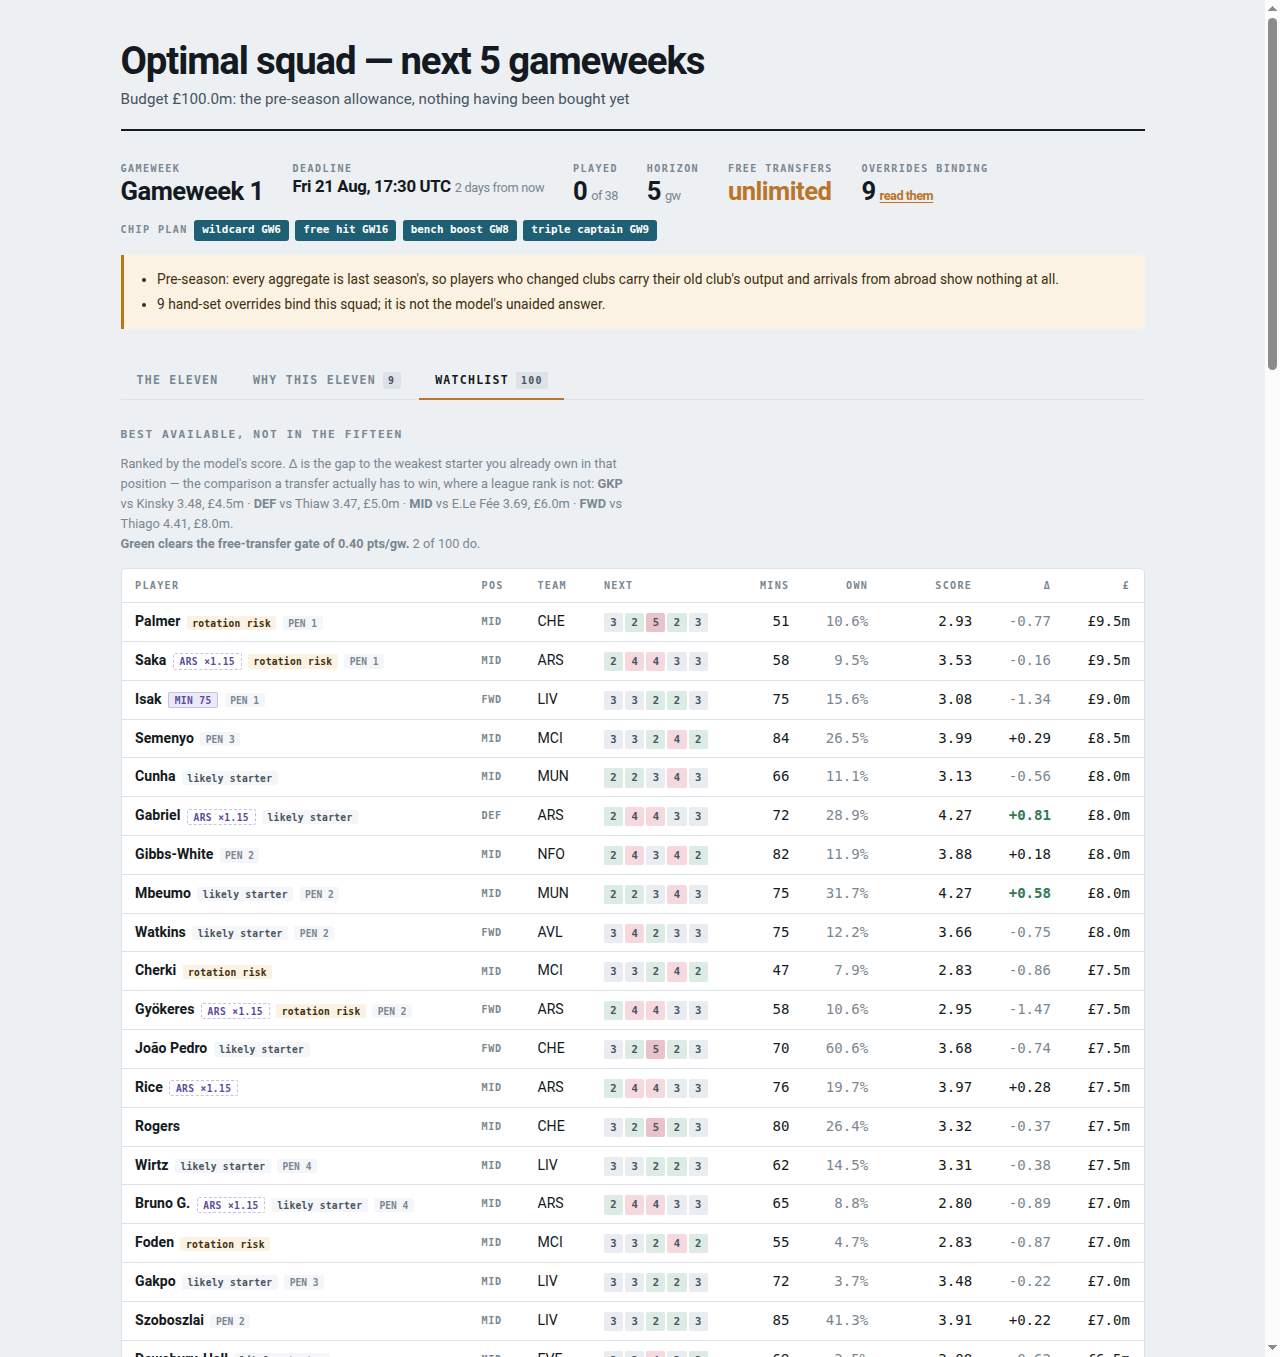
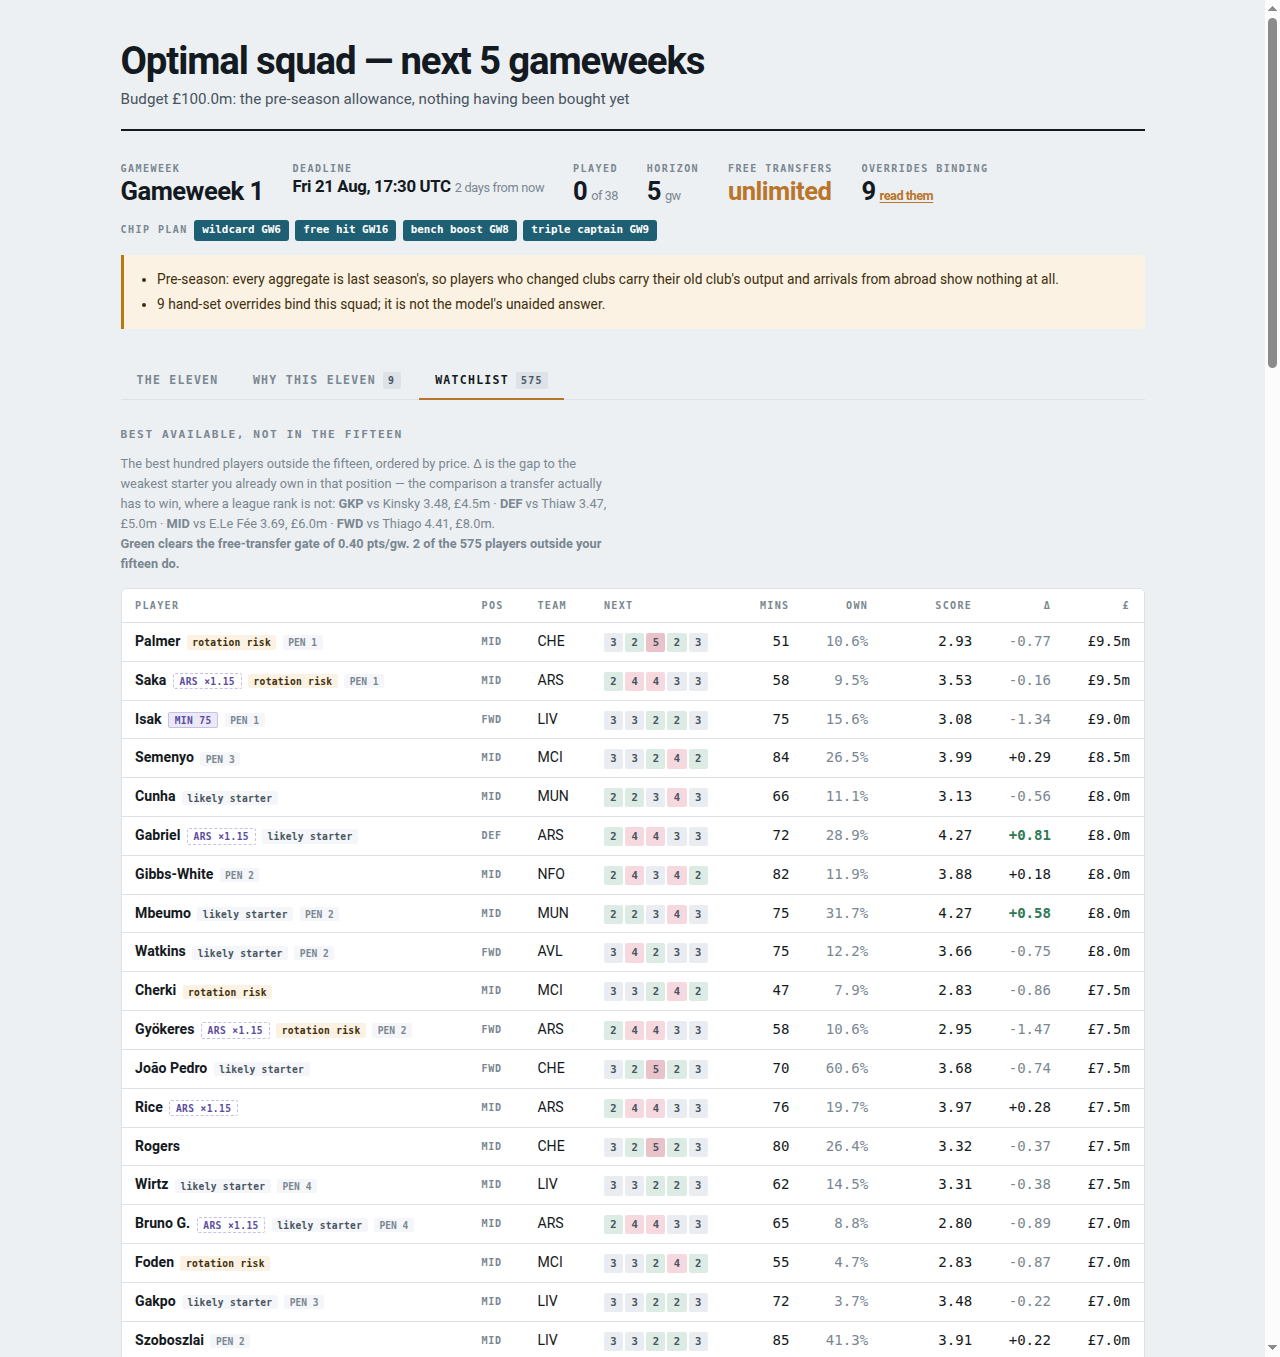
Apply the review findings: reader state, framing, render-buffer, shutdown, scale
Six code findings, three security lows, all applied:

- The enhanced answer now renders from the reader's POSTed ret (their
  filters, sort, page and view), not from the action URL — the morph no
  longer discards what the reader was looking at, and the morphed forms
  embed the reader's URI rather than a dead ret=/action. Pinned by
  TestTheEnhancedAnswerReadsTheReadersState.
- X-Frame-Options: DENY — a framed page's forms carry a valid token, so
  the token gate cannot see a clickjacked click.
- render builds the page in a buffer and writes once: a template error is
  a 500, so the script's reload path can never morph a truncated 200.
- Ctrl-C closes the listener and exits cleanly instead of printing
  'http: Server closed' and exiting 1.
- The gate sentence names its scale: '2 of the 575 players outside your
  fifteen do', the badge counts the pool, and the README, caption and
  screenshot now say so.
- The enhancement script disables the clicked button while busy and
  aborts a stalled action after 20s, so the page can never sit deaf.

Changed region(s): [[0.0938, 0.3405, 0.5625, 1.0], [0.7188, 0.4333, 0.9062, 1.0], [0.5938, 0.4333, 0.6875, 1.0]]

diff --git a/cmd/armband/serve.go b/cmd/armband/serve.go
@@ -1,6 +1,7 @@
 package main
 
 import (
+	"bytes"
 	"context"
 	"crypto/rand"
 	"crypto/subtle"
@@ -11,6 +12,7 @@ import (
 	"fmt"
 	"net"
 	"net/http"
+	"net/url"
 	"os"
 	"strconv"
 	"strings"
@@ -86,7 +88,12 @@ func cmdServe(ctx context.Context, cfg config.Config, cfgPath string,
 		<-ctx.Done()
 		_ = srv.Close()
 	}()
-	return srv.ListenAndServe()
+	if err := srv.ListenAndServe(); err != nil && err != http.ErrServerClosed {
+		return err
+	}
+	// ErrServerClosed is the shutdown the go routine above asked for — the
+	// deliberate end of the command, not an error to print and exit 1 on.
+	return nil
 }
 
 // squadServer is the whole server: the page and the write actions.
@@ -160,13 +167,24 @@ func (s *squadServer) render(w http.ResponseWriter, r *http.Request, cfg config.
 	// must be path-relative, and a bare query would be rejected by the
 	// path-prefix check in action as an open redirect.
 	b.Page.Ret = r.URL.RequestURI()
+	// The page is never meant to be framed: a hostile page could iframe it and
+	// clickjack the lock/boot buttons, whose forms carry a valid token from
+	// the framed page's own DOM — the token gate cannot see that the click
+	// did not come from the reader.
+	w.Header().Set("X-Frame-Options", "DENY")
 	w.Header().Set("Content-Type", "text/html; charset=utf-8")
-	if err := present.Render(w, b.Page); err != nil {
-		// The template is static text compiled once; an execution error is a
-		// programming error, and it arrives after the response has started, so
-		// the only honest report is to the server's own stderr.
+	// Rendered to a buffer, then written once: a template execution error
+	// must answer 500 rather than a truncated 200, because the enhancement
+	// script treats a 200 as "a complete page" and would morph a partial one
+	// into the live DOM. An error status makes the script reload, which is
+	// the consistent answer.
+	var buf bytes.Buffer
+	if err := present.Render(&buf, b.Page); err != nil {
 		fmt.Fprintf(os.Stderr, "render: %v\n", err)
+		http.Error(w, "rendering the page failed", http.StatusInternalServerError)
+		return
 	}
+	_, _ = buf.WriteTo(w)
 }
 
 // action applies one lock or boot and answers with a redirect, so the browser
@@ -242,6 +260,13 @@ func (s *squadServer) action(w http.ResponseWriter, r *http.Request) {
 	// a just-set cookie surviving one. A plain form submission still gets the
 	// 303, where browsers apply the cookie before following.
 	enhanced := r.PostFormValue("enhanced") == "1"
+	// The fresh page must be the page the reader was ON — their filters, sort
+	// and view — not the action URL, or the morph would swap the watchlist
+	// back to its default state while the URL still shows the query.
+	pageReq := r
+	if enhanced {
+		pageReq = readerRequest(r)
+	}
 
 	if s.persist {
 		// Saved before adopted: a failed save leaves the server and the
@@ -256,7 +281,7 @@ func (s *squadServer) action(w http.ResponseWriter, r *http.Request) {
 		}
 		s.cfg = &next
 		if enhanced {
-			s.render(w, r, next, sessionOverrides{})
+			s.render(w, pageReq, next, sessionOverrides{})
 			return
 		}
 	} else {
@@ -271,7 +296,7 @@ func (s *squadServer) action(w http.ResponseWriter, r *http.Request) {
 			return
 		}
 		if enhanced {
-			s.render(w, r, s.effectiveCfgFrom(so), so)
+			s.render(w, pageReq, s.effectiveCfgFrom(so), so)
 			return
 		}
 	}
@@ -461,6 +486,26 @@ func markSessionOverrides(p *present.Page, so sessionOverrides) {
 			}
 		}
 	}
+}
+
+// readerRequest is the request the enhanced page render should read its
+// state from: the POST's `ret` field, which carries the reader's full URI —
+// their filters, sort, page and view. Without it the enhanced answer would
+// render the action URL's state (defaults) and the morph would silently
+// discard what the reader was looking at while the address bar still shows
+// it. An absent or unsafe ret falls back to the request itself.
+func readerRequest(r *http.Request) *http.Request {
+	ret := r.PostFormValue("ret")
+	if !safeRetPath(ret) {
+		return r
+	}
+	u, err := url.Parse(ret)
+	if err != nil {
+		return r
+	}
+	req := r.Clone(r.Context())
+	req.URL = r.URL.ResolveReference(u)
+	return req
 }
 
 // viewParam reads which tab the page opens on. The watchlist's links carry

diff --git a/cmd/armband/serve_test.go b/cmd/armband/serve_test.go
@@ -406,6 +406,40 @@ func TestTheSessionOverridesRideOnTopOfTheConfig(t *testing.T) {
 	}
 }
 
+// TestTheEnhancedAnswerReadsTheReadersState pins the review finding: the
+// enhanced render must carry the reader's filters, sort, page and view from
+// the POSTed ret — rendering from the action URL would morph the watchlist
+// back to its default state while the address bar still shows the query.
+func TestTheEnhancedAnswerReadsTheReadersState(t *testing.T) {
+	req := httptest.NewRequest("POST", "/action",
+		strings.NewReader(url.Values{
+			"ret": {"/?q=sal&sort=score&dir=asc&pos=MID&p=2&v=watch"},
+		}.Encode()))
+	req.Header.Set("Content-Type", "application/x-www-form-urlencoded")
+	req.Host = "127.0.0.1:8080"
+
+	got := readerRequest(req)
+	if got.URL.Query().Get("q") != "sal" || got.URL.Query().Get("sort") != "score" ||
+		got.URL.Query().Get("p") != "2" || got.URL.Query().Get("v") != "watch" {
+		t.Errorf("the enhanced render reads %q, want the reader's query", got.URL.RawQuery)
+	}
+	if got.URL.Path != "/" {
+		t.Errorf("the enhanced render reads path %q, want the reader's /", got.URL.Path)
+	}
+
+	// An absent or unsafe ret falls back to the action request itself, so
+	// the render can never read a foreign origin's state.
+	for _, ret := range []string{"", "//evil.example", `/\\evil.example`} {
+		bad := httptest.NewRequest("POST", "/action",
+			strings.NewReader(url.Values{"ret": {ret}}.Encode()))
+		bad.Header.Set("Content-Type", "application/x-www-form-urlencoded")
+		bad.Host = "127.0.0.1:8080"
+		if got := readerRequest(bad); got != bad {
+			t.Errorf("ret %q was not refused; the render would read attacker state", ret)
+		}
+	}
+}
+
 // TestTheActionSavesBeforeItAdopts. A save failure must leave the running
 // config untouched — adopting first would show an override on the page that
 // every later run silently lacks, which is the page lying about the state of

diff --git a/internal/present/html.go b/internal/present/html.go
@@ -1491,7 +1491,8 @@ var pageTmpl = template.Must(template.New("page").Funcs(template.FuncMap{
     the comparison a transfer actually has to win, where a league rank is not:
     {{range $i, $bm := .Watch.Benchmarks}}{{if $i}} &middot; {{end}}<b>{{$bm.Position}}</b> vs {{$bm.Name}} {{pts $bm.Score}}, {{money $bm.Price}}{{end}}.
     {{with .Watch}}{{if .Gate}}<br><b>Green clears the free-transfer gate of {{pts .Gate}} pts/gw.</b>
-    {{if .Clearing}}{{.Clearing}} of {{.Count}} do.{{else}}<b>Nothing on this list does</b> &mdash;
+    {{if .Clearing}}<b>{{.Clearing}} of the {{.Count}} players outside your fifteen do.</b>
+    {{else}}<b>None of the {{.Count}} players outside your fifteen does</b> &mdash;
     these are ordered, not recommended.{{end}}{{end}}{{end}}</p>
 
   {{if .WatchQ.Interactive}}<form class="wfilter" method="get" action="/">
@@ -1673,7 +1674,15 @@ var pageTmpl = template.Must(template.New("page").Funcs(template.FuncMap{
     // following.
     var data = new FormData(form);
     data.append("enhanced", "1");
-    fetch("/action", { method: "POST", body: data, credentials: "same-origin" })
+    var btn = form.querySelector("button[type=submit]");
+    if (btn) btn.disabled = true;
+    // An action renders the whole page server-side, which takes seconds; a
+    // stalled request must not leave the page deaf forever. The abort
+    // rejects the fetch, the catch reloads, and the reload shows the truth.
+    var ctl = new AbortController();
+    setTimeout(function () { ctl.abort(); }, 20000);
+    fetch("/action", { method: "POST", body: data, credentials: "same-origin",
+      signal: ctl.signal })
       .then(function (r) { if (!r.ok) throw new Error("status " + r.status); return r.text(); })
       .then(function (html) { morph(html); busy = false; })
       .catch(function () { window.location.reload(); });

diff --git a/internal/present/page_test.go b/internal/present/page_test.go
@@ -506,9 +506,12 @@ func TestTheWatchlistSaysWhenNothingClearsTheGate(t *testing.T) {
 			Rows: []WatchRow{{Player: analysis.PlayerMetrics{Name: "X"}, Delta: 0.81}},
 		}
 	})
-	if !strings.Contains(out, "Nothing on this list does") {
-		t.Error("the watchlist does not say that no candidate clears the gate; " +
-			"without it a column of positive deltas reads as a list of upgrades")
+	// The sentence names the scale it counts over — the whole candidate pool,
+	// not the capped hundred — so "none of 2" is stated against 2.
+	if !strings.Contains(out, "None of the 2 players outside your fifteen does") {
+		t.Error("the watchlist does not say that no candidate clears the gate, " +
+			"against the pool it counted; without it a column of positive deltas " +
+			"reads as a list of upgrades")
 	}
 	if !strings.Contains(out, "£10.1m") {
 		t.Error("the benchmark's price is missing from the group header, so the " +

diff --git a/README.md b/README.md
@@ -148,9 +148,9 @@ position and club — a filter searches the whole pool, not just the hundred —
 every column but the fixture strip (price first), with each candidate measured not against the
 league but against the weakest starter you already own in that position — named in the legend
 above the list — and the Δ column giving the gap, green marking what clears the free-transfer
-gate. On this run's data, two of a hundred do.
+gate. On this run's data, two of the whole pool do.
 
-![The watchlist tab, from the same 2026-08-19 run: the hundred best available players not in the fifteen, as one list. The legend above it names the weakest starter already owned in each position — Kinsky for goalkeepers, Thiaw for defenders, E.Le Fée for midfielders, Thiago for forwards — and every row shows the position, the club, the next five fixtures, expected minutes, ownership, the model's score, the gap to that starter, and the price. Two gaps are shown in green; the note above the table says two of 100 clear the free-transfer gate of 0.40 points per gameweek.](docs/images/watchlist.png)
+![The watchlist tab, from the same 2026-08-19 run: the best hundred players not in the fifteen by default, as one list. The legend above it names the weakest starter already owned in each position — Kinsky for goalkeepers, Thiaw for defenders, E.Le Fée for midfielders, Thiago for forwards — and every row shows the position, the club, the next five fixtures, expected minutes, ownership, the model's score, the gap to that starter, and the price. Two gaps are shown in green; the note above the table says two of the 575 players outside the fifteen clear the free-transfer gate of 0.40 points per gameweek.](docs/images/watchlist.png)
 
 The baselines are not straw men; they are what an FPL manager actually reasons from today.
 **Recent form** here is a player's mean score over his last five gameweeks — the same idea as
